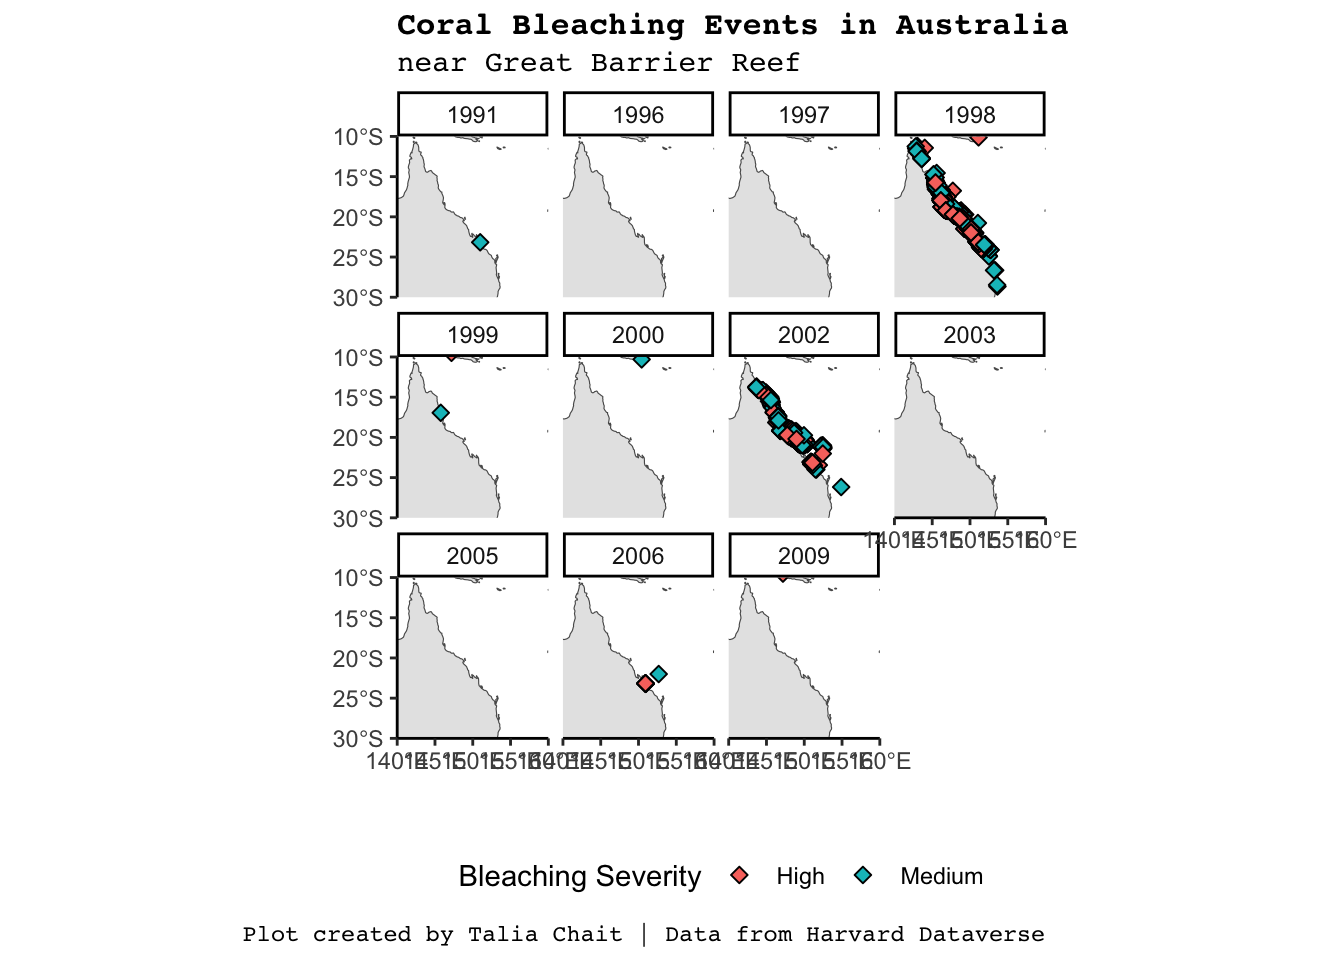
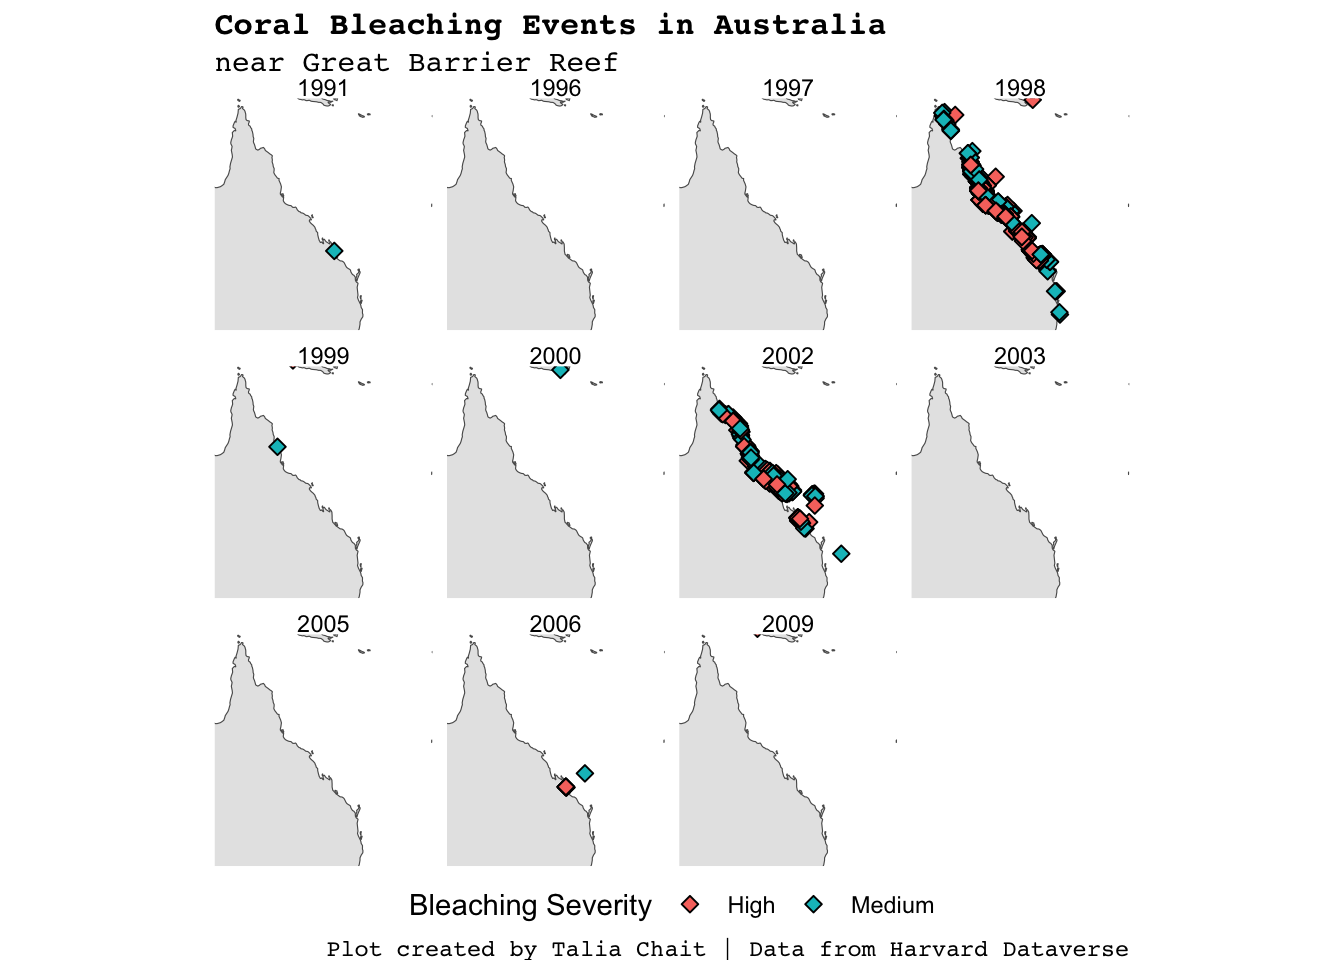
changed coral bleaching graphics

Changed region(s): [[0.1562, 0.0, 0.8438, 1.0], [0.1562, 0.6562, 0.2812, 0.9062]]

diff --git a/oceanhealth_website/_site/index.html b/oceanhealth_website/_site/index.html
@@ -236,34 +236,24 @@ code span.wa { color: #60a0b0; font-weight: bold; font-style: italic; } /* Warni
 <div class="cell">
 <details>
 <summary>Code</summary>
-<div class="sourceCode cell-code" id="cb2"><pre class="sourceCode r code-with-copy"><code class="sourceCode r"><span id="cb2-1"><a href="#cb2-1" aria-hidden="true" tabindex="-1"></a>world <span class="ot">&lt;-</span> <span class="fu">ne_countries</span>(<span class="at">scale =</span> <span class="st">"medium"</span>, <span class="at">returnclass =</span> <span class="st">"sf"</span>)</span>
-<span id="cb2-2"><a href="#cb2-2" aria-hidden="true" tabindex="-1"></a><span class="fu">class</span>(world)</span></code><button title="Copy to Clipboard" class="code-copy-button"><i class="bi"></i></button></pre></div>
-</details>
-<div class="cell-output cell-output-stdout">
-<pre><code>[1] "sf"         "data.frame"</code></pre>
-</div>
-</div>
-<div class="cell">
-<details>
-<summary>Code</summary>
-<div class="sourceCode cell-code" id="cb4"><pre class="sourceCode r code-with-copy"><code class="sourceCode r"><span id="cb4-1"><a href="#cb4-1" aria-hidden="true" tabindex="-1"></a><span class="fu">ggplot</span>(<span class="at">data =</span> world) <span class="sc">+</span> </span>
-<span id="cb4-2"><a href="#cb4-2" aria-hidden="true" tabindex="-1"></a>  <span class="fu">geom_sf</span>() <span class="sc">+</span> </span>
-<span id="cb4-3"><a href="#cb4-3" aria-hidden="true" tabindex="-1"></a>  <span class="fu">annotate</span>(<span class="st">"point"</span>, <span class="at">x =</span> <span class="dv">134</span>, <span class="at">y =</span> <span class="sc">-</span><span class="dv">25</span>, <span class="at">color =</span> <span class="st">"cyan1"</span>, <span class="at">size =</span> <span class="dv">4</span>) <span class="sc">+</span> </span>
-<span id="cb4-4"><a href="#cb4-4" aria-hidden="true" tabindex="-1"></a>  <span class="fu">annotate</span>(<span class="st">"label"</span>, <span class="at">x =</span> <span class="dv">137</span>, <span class="at">y =</span> <span class="sc">-</span><span class="dv">37</span>, <span class="at">label =</span> <span class="st">"Case Study 1"</span>) <span class="sc">+</span></span>
-<span id="cb4-5"><a href="#cb4-5" aria-hidden="true" tabindex="-1"></a>  <span class="fu">annotate</span>(<span class="st">"point"</span>, <span class="at">x =</span> <span class="sc">-</span><span class="dv">120</span>, <span class="at">y =</span> <span class="dv">34</span>, <span class="at">color =</span> <span class="st">"orange"</span>, <span class="at">size =</span> <span class="dv">4</span>) <span class="sc">+</span> </span>
-<span id="cb4-6"><a href="#cb4-6" aria-hidden="true" tabindex="-1"></a>  <span class="fu">annotate</span>(<span class="st">"label"</span>, <span class="at">x =</span> <span class="sc">-</span><span class="dv">120</span>, <span class="at">y =</span> <span class="dv">22</span>, <span class="at">label =</span> <span class="st">"Case Study 2"</span>) <span class="sc">+</span></span>
-<span id="cb4-7"><a href="#cb4-7" aria-hidden="true" tabindex="-1"></a>  <span class="fu">annotate</span>(<span class="st">"point"</span>, <span class="at">x =</span> <span class="dv">19</span>, <span class="at">y =</span> <span class="dv">35</span>, <span class="at">color =</span> <span class="st">"hotpink"</span>, <span class="at">size =</span> <span class="dv">4</span>) <span class="sc">+</span> </span>
-<span id="cb4-8"><a href="#cb4-8" aria-hidden="true" tabindex="-1"></a>  <span class="fu">annotate</span>(<span class="st">"label"</span>, <span class="at">x =</span> <span class="dv">19</span>, <span class="at">y =</span> <span class="dv">47</span>, <span class="at">label =</span> <span class="st">"Case Study 3"</span>) <span class="sc">+</span></span>
-<span id="cb4-9"><a href="#cb4-9" aria-hidden="true" tabindex="-1"></a>  <span class="fu">theme_classic</span>() <span class="sc">+</span></span>
-<span id="cb4-10"><a href="#cb4-10" aria-hidden="true" tabindex="-1"></a>  <span class="fu">labs</span> (<span class="at">y =</span> <span class="st">""</span>, </span>
-<span id="cb4-11"><a href="#cb4-11" aria-hidden="true" tabindex="-1"></a>        <span class="at">x =</span> <span class="st">""</span>,</span>
-<span id="cb4-12"><a href="#cb4-12" aria-hidden="true" tabindex="-1"></a>        <span class="at">title =</span> <span class="st">"Overview of Case Study Locations"</span>) <span class="sc">+</span> </span>
-<span id="cb4-13"><a href="#cb4-13" aria-hidden="true" tabindex="-1"></a>  <span class="fu">theme</span>(<span class="at">plot.title =</span> <span class="fu">element_text</span>(<span class="at">family =</span> <span class="st">"mono"</span>, <span class="at">face =</span> <span class="st">"bold"</span>, <span class="at">size =</span> <span class="dv">12</span>, ),</span>
-<span id="cb4-14"><a href="#cb4-14" aria-hidden="true" tabindex="-1"></a>        <span class="at">plot.title.position =</span> <span class="st">"plot"</span>,</span>
-<span id="cb4-15"><a href="#cb4-15" aria-hidden="true" tabindex="-1"></a>        <span class="at">plot.caption =</span> <span class="fu">element_text</span>(<span class="at">family =</span> <span class="st">"mono"</span>),</span>
-<span id="cb4-16"><a href="#cb4-16" aria-hidden="true" tabindex="-1"></a>        <span class="at">plot.subtitle =</span> <span class="fu">element_text</span>(<span class="at">family =</span> <span class="st">"mono"</span>),</span>
-<span id="cb4-17"><a href="#cb4-17" aria-hidden="true" tabindex="-1"></a>        <span class="at">axis.title.y =</span> <span class="fu">element_text</span>(<span class="at">family =</span> <span class="st">"mono"</span>),</span>
-<span id="cb4-18"><a href="#cb4-18" aria-hidden="true" tabindex="-1"></a>        <span class="at">axis.title.x =</span> <span class="fu">element_text</span>(<span class="at">family =</span> <span class="st">"mono"</span>, <span class="at">vjust =</span> <span class="fl">0.5</span>))</span></code><button title="Copy to Clipboard" class="code-copy-button"><i class="bi"></i></button></pre></div>
+<div class="sourceCode cell-code" id="cb2"><pre class="sourceCode r code-with-copy"><code class="sourceCode r"><span id="cb2-1"><a href="#cb2-1" aria-hidden="true" tabindex="-1"></a><span class="fu">ggplot</span>(<span class="at">data =</span> world) <span class="sc">+</span> </span>
+<span id="cb2-2"><a href="#cb2-2" aria-hidden="true" tabindex="-1"></a>  <span class="fu">geom_sf</span>() <span class="sc">+</span> </span>
+<span id="cb2-3"><a href="#cb2-3" aria-hidden="true" tabindex="-1"></a>  <span class="fu">annotate</span>(<span class="st">"point"</span>, <span class="at">x =</span> <span class="dv">134</span>, <span class="at">y =</span> <span class="sc">-</span><span class="dv">25</span>, <span class="at">color =</span> <span class="st">"cyan1"</span>, <span class="at">size =</span> <span class="dv">4</span>) <span class="sc">+</span> </span>
+<span id="cb2-4"><a href="#cb2-4" aria-hidden="true" tabindex="-1"></a>  <span class="fu">annotate</span>(<span class="st">"label"</span>, <span class="at">x =</span> <span class="dv">137</span>, <span class="at">y =</span> <span class="sc">-</span><span class="dv">37</span>, <span class="at">label =</span> <span class="st">"Case Study 1"</span>) <span class="sc">+</span></span>
+<span id="cb2-5"><a href="#cb2-5" aria-hidden="true" tabindex="-1"></a>  <span class="fu">annotate</span>(<span class="st">"point"</span>, <span class="at">x =</span> <span class="sc">-</span><span class="dv">120</span>, <span class="at">y =</span> <span class="dv">34</span>, <span class="at">color =</span> <span class="st">"orange"</span>, <span class="at">size =</span> <span class="dv">4</span>) <span class="sc">+</span> </span>
+<span id="cb2-6"><a href="#cb2-6" aria-hidden="true" tabindex="-1"></a>  <span class="fu">annotate</span>(<span class="st">"label"</span>, <span class="at">x =</span> <span class="sc">-</span><span class="dv">120</span>, <span class="at">y =</span> <span class="dv">22</span>, <span class="at">label =</span> <span class="st">"Case Study 2"</span>) <span class="sc">+</span></span>
+<span id="cb2-7"><a href="#cb2-7" aria-hidden="true" tabindex="-1"></a>  <span class="fu">annotate</span>(<span class="st">"point"</span>, <span class="at">x =</span> <span class="dv">19</span>, <span class="at">y =</span> <span class="dv">35</span>, <span class="at">color =</span> <span class="st">"hotpink"</span>, <span class="at">size =</span> <span class="dv">4</span>) <span class="sc">+</span> </span>
+<span id="cb2-8"><a href="#cb2-8" aria-hidden="true" tabindex="-1"></a>  <span class="fu">annotate</span>(<span class="st">"label"</span>, <span class="at">x =</span> <span class="dv">19</span>, <span class="at">y =</span> <span class="dv">47</span>, <span class="at">label =</span> <span class="st">"Case Study 3"</span>) <span class="sc">+</span></span>
+<span id="cb2-9"><a href="#cb2-9" aria-hidden="true" tabindex="-1"></a>  <span class="fu">theme_classic</span>() <span class="sc">+</span></span>
+<span id="cb2-10"><a href="#cb2-10" aria-hidden="true" tabindex="-1"></a>  <span class="fu">labs</span> (<span class="at">y =</span> <span class="st">""</span>, </span>
+<span id="cb2-11"><a href="#cb2-11" aria-hidden="true" tabindex="-1"></a>        <span class="at">x =</span> <span class="st">""</span>,</span>
+<span id="cb2-12"><a href="#cb2-12" aria-hidden="true" tabindex="-1"></a>        <span class="at">title =</span> <span class="st">"Overview of Case Study Locations"</span>) <span class="sc">+</span> </span>
+<span id="cb2-13"><a href="#cb2-13" aria-hidden="true" tabindex="-1"></a>  <span class="fu">theme</span>(<span class="at">plot.title =</span> <span class="fu">element_text</span>(<span class="at">family =</span> <span class="st">"mono"</span>, <span class="at">face =</span> <span class="st">"bold"</span>, <span class="at">size =</span> <span class="dv">12</span>, ),</span>
+<span id="cb2-14"><a href="#cb2-14" aria-hidden="true" tabindex="-1"></a>        <span class="at">plot.title.position =</span> <span class="st">"plot"</span>,</span>
+<span id="cb2-15"><a href="#cb2-15" aria-hidden="true" tabindex="-1"></a>        <span class="at">plot.caption =</span> <span class="fu">element_text</span>(<span class="at">family =</span> <span class="st">"mono"</span>),</span>
+<span id="cb2-16"><a href="#cb2-16" aria-hidden="true" tabindex="-1"></a>        <span class="at">plot.subtitle =</span> <span class="fu">element_text</span>(<span class="at">family =</span> <span class="st">"mono"</span>),</span>
+<span id="cb2-17"><a href="#cb2-17" aria-hidden="true" tabindex="-1"></a>        <span class="at">axis.title.y =</span> <span class="fu">element_text</span>(<span class="at">family =</span> <span class="st">"mono"</span>),</span>
+<span id="cb2-18"><a href="#cb2-18" aria-hidden="true" tabindex="-1"></a>        <span class="at">axis.title.x =</span> <span class="fu">element_text</span>(<span class="at">family =</span> <span class="st">"mono"</span>, <span class="at">vjust =</span> <span class="fl">0.5</span>))</span></code><button title="Copy to Clipboard" class="code-copy-button"><i class="bi"></i></button></pre></div>
 </details>
 <div class="cell-output-display">
 <p><img src="index_files/figure-html/unnamed-chunk-4-1.png" class="img-fluid" width="672"></p>

diff --git a/oceanhealth_website/_site/coralbleaching.html b/oceanhealth_website/_site/coralbleaching.html
@@ -164,7 +164,7 @@ code span.wa { color: #60a0b0; font-weight: bold; font-style: italic; } /* Warni
   </li>  
   <li class="nav-item">
     <a class="nav-link" href="./about.html">
- <span class="menu-text">About Us</span></a>
+ <span class="menu-text">About</span></a>
   </li>  
   <li class="nav-item compact">
     <a class="nav-link" href="https://github.com/lescobos/amelia-talia-lorena-456project"><i class="bi bi-github" role="img">
@@ -324,23 +324,23 @@ code span.wa { color: #60a0b0; font-weight: bold; font-style: italic; } /* Warni
 <span id="cb4-3"><a href="#cb4-3" aria-hidden="true" tabindex="-1"></a>  <span class="fu">geom_point</span>(<span class="at">data =</span> coralbleaching, <span class="fu">aes</span>(<span class="at">x =</span> LON, <span class="at">y =</span> LAT), <span class="at">size =</span> <span class="dv">2</span>, </span>
 <span id="cb4-4"><a href="#cb4-4" aria-hidden="true" tabindex="-1"></a>        <span class="at">shape =</span> <span class="dv">23</span>, <span class="at">fill =</span> <span class="st">"darkred"</span>) <span class="sc">+</span></span>
 <span id="cb4-5"><a href="#cb4-5" aria-hidden="true" tabindex="-1"></a>  <span class="fu">coord_sf</span>(<span class="at">xlim =</span> <span class="fu">c</span>(<span class="dv">100</span>, <span class="dv">160</span>), <span class="at">ylim =</span> <span class="fu">c</span>(<span class="sc">-</span><span class="dv">50</span>, <span class="dv">0</span>), <span class="at">expand =</span> <span class="cn">FALSE</span>) <span class="sc">+</span></span>
-<span id="cb4-6"><a href="#cb4-6" aria-hidden="true" tabindex="-1"></a>  <span class="fu">theme</span>(<span class="at">plot.title =</span> <span class="fu">element_text</span>(<span class="at">family =</span> <span class="st">"mono"</span>, <span class="at">face =</span> <span class="st">"bold"</span>, <span class="at">size =</span> <span class="dv">12</span>, ),</span>
-<span id="cb4-7"><a href="#cb4-7" aria-hidden="true" tabindex="-1"></a>        <span class="at">plot.title.position =</span> <span class="st">"plot"</span>,</span>
-<span id="cb4-8"><a href="#cb4-8" aria-hidden="true" tabindex="-1"></a>        <span class="at">plot.caption =</span> <span class="fu">element_text</span>(<span class="at">family =</span> <span class="st">"mono"</span>),</span>
-<span id="cb4-9"><a href="#cb4-9" aria-hidden="true" tabindex="-1"></a>        <span class="at">plot.subtitle =</span> <span class="fu">element_text</span>(<span class="at">family =</span> <span class="st">"mono"</span>),</span>
-<span id="cb4-10"><a href="#cb4-10" aria-hidden="true" tabindex="-1"></a>        <span class="at">axis.title.y =</span> <span class="fu">element_text</span>(<span class="at">family =</span> <span class="st">"mono"</span>),</span>
-<span id="cb4-11"><a href="#cb4-11" aria-hidden="true" tabindex="-1"></a>        <span class="at">axis.title.x =</span> <span class="fu">element_text</span>(<span class="at">family =</span> <span class="st">"mono"</span>, <span class="at">vjust =</span> <span class="fl">0.5</span>)) <span class="sc">+</span></span>
-<span id="cb4-12"><a href="#cb4-12" aria-hidden="true" tabindex="-1"></a>  <span class="fu">theme_classic</span>() <span class="sc">+</span> </span>
-<span id="cb4-13"><a href="#cb4-13" aria-hidden="true" tabindex="-1"></a>  <span class="fu">labs</span>(<span class="at">title =</span> <span class="st">"Coral Bleaching Events in Australia"</span>,</span>
-<span id="cb4-14"><a href="#cb4-14" aria-hidden="true" tabindex="-1"></a>       <span class="at">y =</span> <span class="st">"Latitude"</span>,</span>
-<span id="cb4-15"><a href="#cb4-15" aria-hidden="true" tabindex="-1"></a>       <span class="at">x =</span> <span class="st">"Longitude"</span>,</span>
-<span id="cb4-16"><a href="#cb4-16" aria-hidden="true" tabindex="-1"></a>       <span class="at">caption =</span> <span class="st">"Plot created by Talia Chait | Data from Harvard Dataverse"</span>)</span></code><button title="Copy to Clipboard" class="code-copy-button"><i class="bi"></i></button></pre></div>
+<span id="cb4-6"><a href="#cb4-6" aria-hidden="true" tabindex="-1"></a>  <span class="fu">theme_classic</span>() <span class="sc">+</span> </span>
+<span id="cb4-7"><a href="#cb4-7" aria-hidden="true" tabindex="-1"></a>  <span class="fu">labs</span>(<span class="at">title =</span> <span class="st">"Coral Bleaching Events in Australia"</span>,</span>
+<span id="cb4-8"><a href="#cb4-8" aria-hidden="true" tabindex="-1"></a>       <span class="at">y =</span> <span class="st">"Latitude"</span>,</span>
+<span id="cb4-9"><a href="#cb4-9" aria-hidden="true" tabindex="-1"></a>       <span class="at">x =</span> <span class="st">"Longitude"</span>,</span>
+<span id="cb4-10"><a href="#cb4-10" aria-hidden="true" tabindex="-1"></a>       <span class="at">caption =</span> <span class="st">"Plot created by Talia Chait | Data from Harvard Dataverse"</span>) <span class="sc">+</span></span>
+<span id="cb4-11"><a href="#cb4-11" aria-hidden="true" tabindex="-1"></a>   <span class="fu">theme</span>(<span class="at">plot.title =</span> <span class="fu">element_text</span>(<span class="at">family =</span> <span class="st">"mono"</span>, <span class="at">face =</span> <span class="st">"bold"</span>, <span class="at">size =</span> <span class="dv">12</span>, ),</span>
+<span id="cb4-12"><a href="#cb4-12" aria-hidden="true" tabindex="-1"></a>        <span class="at">plot.title.position =</span> <span class="st">"plot"</span>,</span>
+<span id="cb4-13"><a href="#cb4-13" aria-hidden="true" tabindex="-1"></a>        <span class="at">plot.caption =</span> <span class="fu">element_text</span>(<span class="at">family =</span> <span class="st">"mono"</span>),</span>
+<span id="cb4-14"><a href="#cb4-14" aria-hidden="true" tabindex="-1"></a>        <span class="at">plot.subtitle =</span> <span class="fu">element_text</span>(<span class="at">family =</span> <span class="st">"mono"</span>),</span>
+<span id="cb4-15"><a href="#cb4-15" aria-hidden="true" tabindex="-1"></a>        <span class="at">axis.title.y =</span> <span class="fu">element_text</span>(<span class="at">family =</span> <span class="st">"mono"</span>),</span>
+<span id="cb4-16"><a href="#cb4-16" aria-hidden="true" tabindex="-1"></a>        <span class="at">axis.title.x =</span> <span class="fu">element_text</span>(<span class="at">family =</span> <span class="st">"mono"</span>, <span class="at">vjust =</span> <span class="fl">0.5</span>))</span></code><button title="Copy to Clipboard" class="code-copy-button"><i class="bi"></i></button></pre></div>
 </details>
 <div class="cell-output-display">
 <p><img src="coralbleaching_files/figure-html/unnamed-chunk-4-1.png" class="img-fluid" width="672"></p>
 </div>
 </div>
-<div class="cell">
+<div class="cell" width="800px">
 <details>
 <summary>Code</summary>
 <div class="sourceCode cell-code" id="cb5"><pre class="sourceCode r code-with-copy"><code class="sourceCode r"><span id="cb5-1"><a href="#cb5-1" aria-hidden="true" tabindex="-1"></a><span class="fu">ggplot</span>(<span class="at">data =</span> world) <span class="sc">+</span></span>
@@ -348,7 +348,7 @@ code span.wa { color: #60a0b0; font-weight: bold; font-style: italic; } /* Warni
 <span id="cb5-3"><a href="#cb5-3" aria-hidden="true" tabindex="-1"></a>  <span class="fu">geom_point</span>(<span class="at">data =</span> coralbleachmedhigh, <span class="fu">aes</span>(<span class="at">x =</span> LON, <span class="at">y =</span> LAT, <span class="at">fill =</span> BLEACHING_SEVERITY), <span class="at">size =</span> <span class="dv">2</span>, <span class="at">shape =</span> <span class="dv">23</span>) <span class="sc">+</span></span>
 <span id="cb5-4"><a href="#cb5-4" aria-hidden="true" tabindex="-1"></a>  <span class="fu">facet_wrap</span>(<span class="sc">~</span>YEAR) <span class="sc">+</span> </span>
 <span id="cb5-5"><a href="#cb5-5" aria-hidden="true" tabindex="-1"></a>  <span class="fu">coord_sf</span>(<span class="at">xlim =</span> <span class="fu">c</span>(<span class="dv">140</span>, <span class="dv">160</span>), <span class="at">ylim =</span> <span class="fu">c</span>(<span class="sc">-</span><span class="dv">30</span>, <span class="sc">-</span><span class="dv">10</span>), <span class="at">expand =</span> <span class="cn">FALSE</span>) <span class="sc">+</span></span>
-<span id="cb5-6"><a href="#cb5-6" aria-hidden="true" tabindex="-1"></a>  <span class="fu">theme_classic</span>() <span class="sc">+</span> </span>
+<span id="cb5-6"><a href="#cb5-6" aria-hidden="true" tabindex="-1"></a>  <span class="fu">theme_void</span>() <span class="sc">+</span> </span>
 <span id="cb5-7"><a href="#cb5-7" aria-hidden="true" tabindex="-1"></a>  <span class="fu">labs</span>(<span class="at">title =</span> <span class="st">"Coral Bleaching Events in Australia"</span>,</span>
 <span id="cb5-8"><a href="#cb5-8" aria-hidden="true" tabindex="-1"></a>       <span class="at">subtitle =</span> <span class="st">"near Great Barrier Reef"</span>,</span>
 <span id="cb5-9"><a href="#cb5-9" aria-hidden="true" tabindex="-1"></a>       <span class="at">y =</span> <span class="st">""</span>,</span>

diff --git a/oceanhealth_website/_site/about.html b/oceanhealth_website/_site/about.html
@@ -7,7 +7,7 @@
 <meta name="viewport" content="width=device-width, initial-scale=1.0, user-scalable=yes">
 
 
-<title>Ocean Health - About Us</title>
+<title>Ocean Health - About</title>
 <style>
 code{white-space: pre-wrap;}
 span.smallcaps{font-variant: small-caps;}
@@ -101,7 +101,7 @@ ul.task-list li input[type="checkbox"] {
   </li>  
   <li class="nav-item">
     <a class="nav-link active" href="./about.html" aria-current="page">
- <span class="menu-text">About Us</span></a>
+ <span class="menu-text">About</span></a>
   </li>  
   <li class="nav-item compact">
     <a class="nav-link" href="https://github.com/lescobos/amelia-talia-lorena-456project"><i class="bi bi-github" role="img">
@@ -126,7 +126,7 @@ ul.task-list li input[type="checkbox"] {
 
 <header id="title-block-header" class="quarto-title-block default">
 <div class="quarto-title">
-<h1 class="title">About Us</h1>
+<h1 class="title">About</h1>
 </div>
 
 
@@ -142,7 +142,7 @@ ul.task-list li input[type="checkbox"] {
 </header>
 
 <p>This website was created in Projects in Data Science by Amelia Renner, Talia Chait, and Lorena Escobosa Alcantar in spring semester 2023 at Macalester College.</p>
-<p>We want to thank Professor Brianna Heggeseth for advising us on this project, Professor Louisa Bradtmiller for giving us more</p>
+<p>We want to thank Professor Brianna Heggeseth for advising us on this project, Professor Louisa Bradtmiller for giving us helpful feedback on our visualizations and insightful ideas of what to look into.</p>
 
 
 
